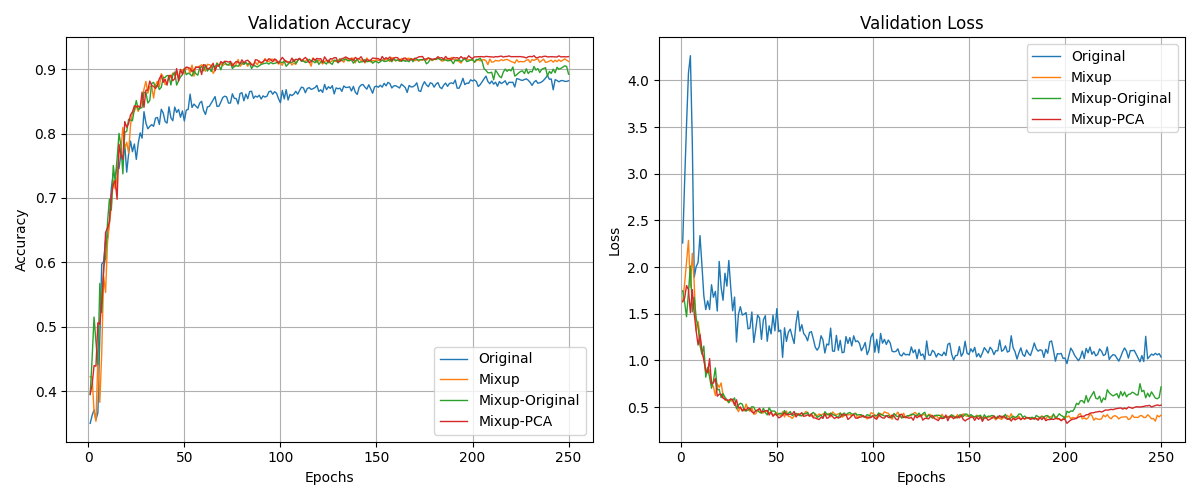
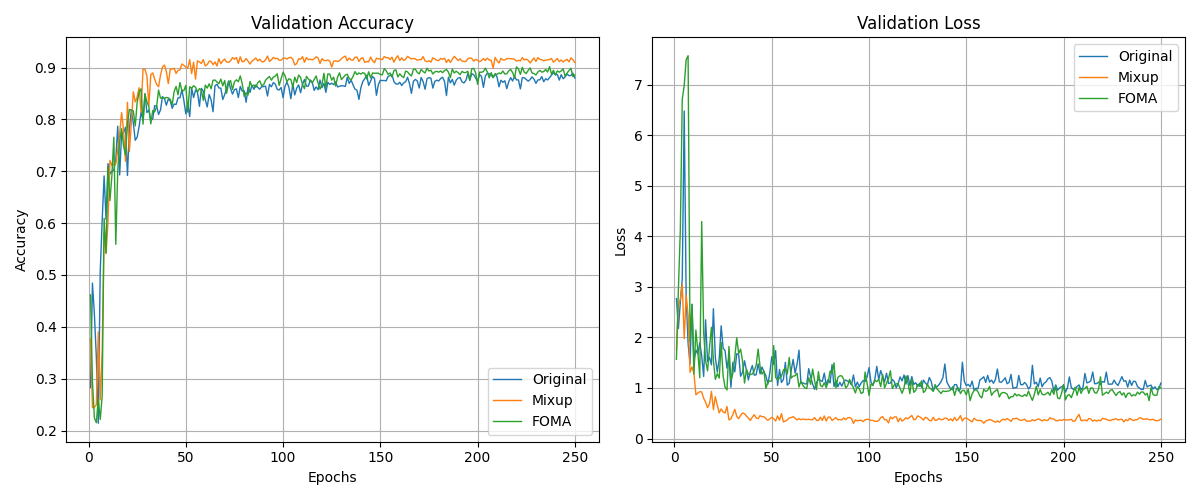
FOMA

diff --git a/foma.py b/foma.py
@@ -2,6 +2,65 @@ import torch
 import torch.nn as nn
 import torch.nn.functional as F
 
+# 引数設定
+class Args:
+    num_classes = 10
+    alpha = 1.0
+    rho = 0.9
+    small_singular = True
+
+
+
+def foma(X, Y, num_classes, alpha, rho, small_singular=True, lam=None):
+    """
+    FOMA for image classification tasks.
+    X: Input images, shape [B, C, H, W]
+    Y: Labels, shape [B] or [B, num_classes]
+    """
+    B = X.shape[0]
+    # Flatten image to [B, C*H*W]
+    X_flat = X.view(B, -1)
+
+    # Convert labels to one-hot if needed
+    if Y.ndim == 1:  # [B]
+        Y_onehot = F.one_hot(Y, num_classes=num_classes).float()
+    else:
+        Y_onehot = Y.float()
+
+    # Concatenate X and Y
+    Z = torch.cat([X_flat, Y_onehot], dim=1)
+
+    # SVD
+    U, s, Vt = torch.linalg.svd(Z, full_matrices=False)
+
+    # Lambda
+    if lam is None:
+        lam = torch.distributions.beta.Beta(alpha, alpha).sample().to(X.device)
+    if not torch.is_tensor(lam):
+        lam = torch.tensor(lam).to(X.device)
+
+    # Scale singular values (simplified: scaling small singular values)
+    cumperc = torch.cumsum(s, dim=0) / torch.sum(s)
+    condition = cumperc > rho if small_singular else cumperc < rho
+    lam_mult = torch.where(condition, lam, torch.tensor(1.0, device=s.device))
+    s_scaled = s * lam_mult
+
+    # Reconstruct Z
+    Z_scaled = (U @ torch.diag(s_scaled) @ Vt)
+
+    # Split back to X and Y
+    X_flat_scaled = Z_scaled[:, :X_flat.shape[1]]
+    Y_onehot_scaled = Z_scaled[:, X_flat.shape[1]:]
+
+    # Reshape X to original image shape
+    X_scaled = X_flat_scaled.view_as(X)
+
+    # Optionally: Convert one-hot back to class labels (argmax)
+    Y_scaled = torch.argmax(Y_onehot_scaled, dim=1)
+
+    return X_scaled, Y_scaled
+
+
 # ========= 簡易CNNモデル（特徴抽出部分を定義） =========
 
 class SimpleCNN(nn.Module):
@@ -73,6 +132,7 @@ def step3(A, feature_dim, num_classes):
 # ========= テストコード =========
 
 if __name__ == "__main__":
+
     # 仮データの準備
     batch_size = 128
     num_classes = 10
@@ -82,18 +142,23 @@ if __name__ == "__main__":
     x_dummy = torch.randn(batch_size, 3, 32, 32)
     y_dummy = torch.randint(0, num_classes, (batch_size,))
 
-    # モデルのインスタンス化
-    model = SimpleCNN(feature_dim=feature_dim)
+    X_scaled, Y_scaled = foma( x_dummy, y_dummy)
+    print(X_scaled.shape, Y_scaled.shape)
 
-    # ステップ1の実行
-    A = step1(model, x_dummy, y_dummy, num_classes)
 
-    # ステップ2の実行
-    lam = torch.Tensor([0.5]) 
-    k = 20
-    A = step2(A, k, lam)
 
-    # ステップ3の実行
-    Z_l_aug, Y_soft = step3(A, feature_dim, num_classes)
-    print(Z_l_aug.shape)
-    print(Y_soft)
+    # # モデルのインスタンス化
+    # model = SimpleCNN(feature_dim=feature_dim)
+
+    # # ステップ1の実行
+    # A = step1(model, x_dummy, y_dummy, num_classes)
+
+    # # ステップ2の実行
+    # lam = torch.Tensor([0.5]) 
+    # k = 20
+    # A = step2(A, k, lam)
+
+    # # ステップ3の実行
+    # Z_l_aug, Y_soft = step3(A, feature_dim, num_classes)
+    # print(Z_l_aug.shape)
+    # print(Y_soft)

diff --git a/train.py b/train.py
@@ -19,12 +19,13 @@ from torch.utils.data import DataLoader, random_split
 from src.models.resnet import ResNet18
 from src.models.wide_resnet import Wide_ResNet
 from sklearn.manifold import TSNE
+from foma import foma
 
 def main():
-    for i in range(3, 5):
+    for i in range(1):
         parser = argparse.ArgumentParser()
         parser.add_argument("--epochs", type=int, default=250)
-        parser.add_argument("--data_type", type=str, default="cifar10", choices=["stl10", "cifar100", "cifar10"])
+        parser.add_argument("--data_type", type=str, default="cifar100", choices=["stl10", "cifar100", "cifar10"])
         parser.add_argument("--model_type", type=str, default="wide_resnet_28_10", choices=["resnet18", "wide_resnet_28_10"])
         parser.add_argument("--alpha", type=float, default=1.0, help="MixUp interpolation coefficient (default: 1.0)")
         args = parser.parse_args() 
@@ -76,7 +77,7 @@ def main():
 
         # Augmentation List
         augmentations = {
-            "Original",
+            # "Original",
             # "Mixup",
             # "Mixup-Original",
             # "Mixup-PCA",
@@ -85,7 +86,7 @@ def main():
             
             # "Manifold-Mixup",
             # "PCA",
-            # "FOMA",
+            "FOMA",
         }
 
         for augment in augmentations:
@@ -101,7 +102,7 @@ def main():
 
             # TRAINING #
             for epoch in range(epochs):
-                train_loss, train_acc = train(model, train_loader, criterion, optimizer, device, augment, aug_ok=False, epochs=epoch)
+                train_loss, train_acc = train(model, train_loader, criterion, optimizer, device, augment, num_classes, aug_ok=False, epochs=epoch)
                 val_loss, val_acc     = val(model, val_loader, criterion, device, augment, aug_ok=False)
 
                 if score <= val_acc:
@@ -129,7 +130,7 @@ def main():
             with open(f"./history/{model_type}/{augment}/{data_type}_{epochs}_{i}_test.pickle", "wb") as f:
                 pickle.dump(test_history, f)
 
-def train(model, train_loader, criterion, optimizer, device, augment, aug_ok, epochs):
+def train(model, train_loader, criterion, optimizer, device, augment, num_classes, aug_ok, epochs):
     model.train()
     train_loss = 0.0
     train_acc  = 0.0
@@ -137,7 +138,12 @@ def train(model, train_loader, criterion, optimizer, device, augment, aug_ok, ep
     for images, labels in tqdm(train_loader, leave=False):
         images, labels = images.to(device), labels.to(device)
 
-        if augment == "Original":  
+        if augment == "FOMA":
+            images, labels = foma(images, labels, num_classes, alpha=1.0, rho=0.9)
+            preds = model(images, labels, device, augment, aug_ok)
+            loss  = criterion(preds, labels)
+
+        elif augment == "Original":  
             preds = model(images, labels, device, augment, aug_ok)
             loss  = criterion(preds, labels)
 

diff --git a/result.py b/result.py
@@ -4,18 +4,21 @@ import numpy as np
 import matplotlib.pyplot as plt
 
 def main():
-    iteration     = 4
+    iteration     = 1
     data_type     = "cifar10"
     epochs        = 250
     model_type    = "wide_resnet_28_10"
     augmentations = [
         "Original", 
         "Mixup", 
-        "Mixup-Original", 
-        "Mixup-PCA", 
+        # "Mixup-Original", 
+        # "Mixup-PCA", 
+
+        # "Original-PCA"
 
         # "Mixup-Original&PCA",
         # "Mixup-PCA-Comulative",
+        "FOMA"
     ]
     
     ### Plot accuracy & loss ###
@@ -86,7 +89,7 @@ def plot_comparison_graph(model_type, augmentations, data_type, epoch, iteration
     
     plt.tight_layout()
     # plt.savefig(f'./result_plot/{model_type}/{data_type}_{epoch}.png')
-    plt.savefig(f'./result_plot/{model_type}/{data_type}_{epoch}_.png')
+    plt.savefig(f'./result_plot/{model_type}/{data_type}_{epoch}.png')
     print("Save Result!")
 
 def load_acc(path, iteration):
